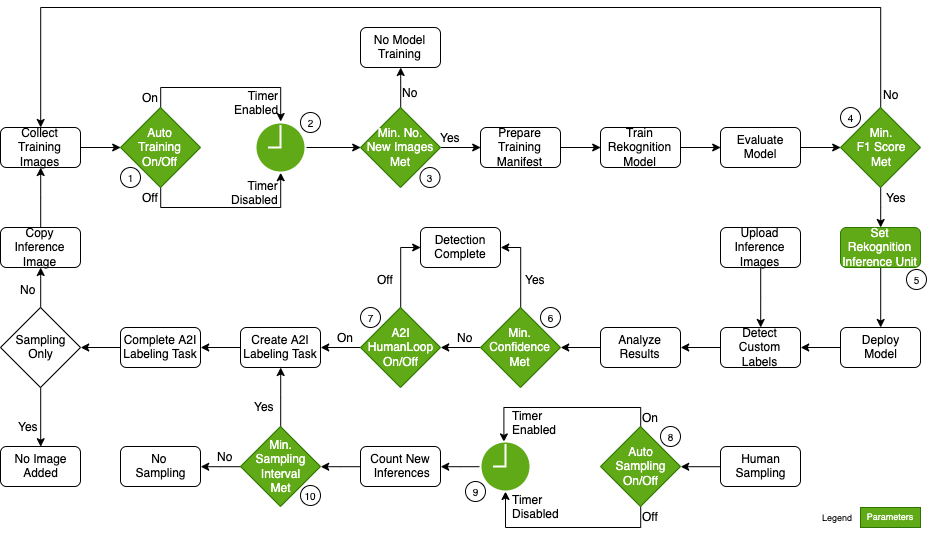
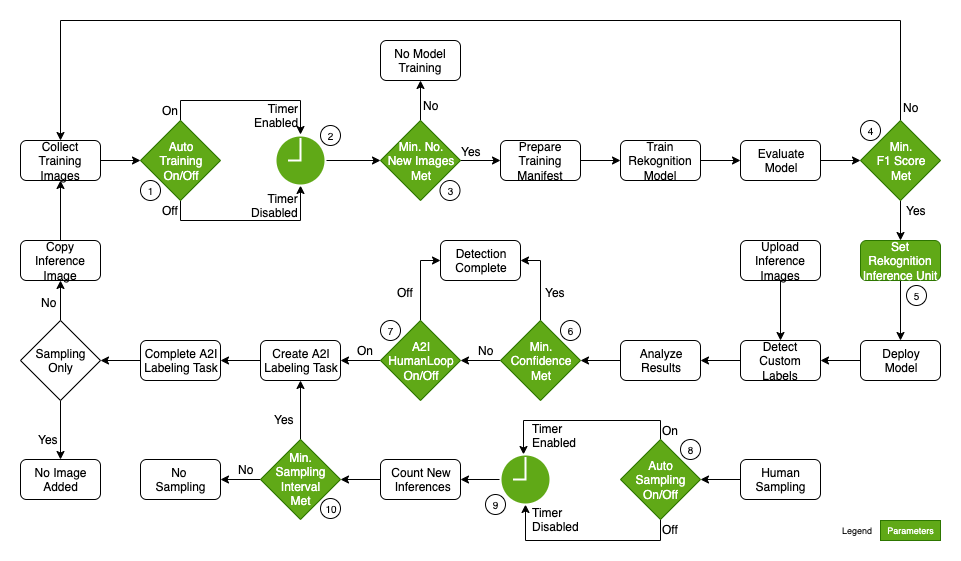
Update README and diagrams

diff --git a/README.md b/README.md
@@ -36,7 +36,7 @@ The state machine is event-driven and divided into four separate states:
 
 4. The A2I Human Loop Data state is invoked by an S3 PutObject event. When the Amazon A2I human review workflow is complete, the output is stored in Amazon S3 by Amazon A2I by default. An S3 PutObject event invokes a Lambda function to redirect the required action to the state machine. The state machine invokes another Lambda function to evaluate the human loop response and place a copy of the initial image into an S3 folder corresponding to the evaluated label. This is the process in which new human-labeled images are added to the training dataset.
 
-5. The Human Sampling state is invoked by an EventBridge schedule rule on a polling schedule set by the model operator as a parameter. The state machine invokes a Lambda function to first query the image inference log to find the last human sampled inference and then query the next qualified inference to be sampled based on the sampling interval as set the model operator. If found, that inference is marked as "sampled" and an human review workflow is created. The process repeats again until all qualified inferences are marked for sampling in the same invocation.
+5. The Human Sampling state is invoked by an EventBridge schedule rule on a polling schedule set by the model operator as a parameter. The state machine invokes a Lambda function to first query the image inference log to find the last human sampled inference and then search for the next qualified inference to be sampled based on the sampling interval as set by the model operator. If qualified, that inference is marked as "sampled" and a human review workflow is created. The process repeats again until all qualified inferences are marked for human sampling in the same invocation.
 
 ### Architecture overview
 This solution is built on AWS [serverless](https://aws.amazon.com/serverless/) architecture. The architecture is shown in the following diagram.
@@ -55,7 +55,7 @@ We use Parameter Store in two different ways. Firstly, we provide a set of seven
 
 We use two EventBridge rules to initiate Step Functions state machine runs. The first rule is based on a Systems Manager event pattern. The Systems Manager rule is triggered by changes to the Parameter Store and initiates the state machine to invoke a Lambda function to apply changes to the impacted resources. The second rule is a schedule rule. The schedule rule is triggered periodically to initiate the state machine to invoke a Lambda function to check for new model training.
 
-We use an [Amazon DynamoDB](https://aws.amazon.com/dynamodb/) NoSQL database to log all Rekognition and A2I events and results for performance analysis and model drift detection. Although we did NOT include an analytics feature in this example,  you can quickly deploy [Amazon QuickSight](https://aws.amazon.com/quicksight/) with the DynamoDB table as your source to visualize the performance of your model over time.
+We use an [Amazon DynamoDB](https://aws.amazon.com/dynamodb/) NoSQL database to log all Rekognition and A2I events and results for performance analysis and model drift detection. Although we did NOT include an analytics feature in this example, you can use [AWS Glue](https://aws.amazon.com/glue) and [Amazon Athena](https://aws.amazon.com/athena) to run interactive ad hoc SQL queries against the inference logs. With [Amazon QuickSight](https://aws.amazon.com/quicksight/), you can create real-time analytics dashboard to visualize the inference logs.
 
 We use a Step Functions state machine to orchestrate the ML workflow. The state machine initiates different processes based on events received from EventBridge and responses from Lambda. In addition, the state machine uses an internal process such as Wait to wait for model training and deployment to complete and Choice to evaluate for next tasks.
 

diff --git a/6-Human-Sampling/README.md b/6-Human-Sampling/README.md
@@ -3,16 +3,16 @@
 In this section, we explain the design principle and the processes behind the human sampling workflow.
 
 **Design principle**  
-The principle for the human-in-the-loop workflow is intended for model improvement by capturing inference images with [Amazon Rekognition Custom Labels](https://aws.amazon.com/rekognition/custom-labels-features/) with low confidence detection result and add them to the training dataset for new training. The principle for human sampling workflow is intended for business improvement. In human sampling, for every `nth` detection, the detection is flagged for human review and the human-labeled result is compared against the detected one, regardless of the original detection confidence level. The sampled detections can then used for qualify control, audit, analytics, etc. Although both workflows use the same [Amazon A2I](https://aws.amazon.com/augmented-ai/) process, inference images flagged as `sampled only` are **not** add to the training dataset.
+The principle for human sampling is intended for business improvement. In human sampling, every `nth` detection is flagged for human review and the human-labeled result is compared against the detected one, regardless of the original detection confidence level. The sampled detections can then be used for qualify control, audit, analytics, **manual** model drift detection, etc. Inference images flagged as `sampled only` are **not** added to the training dataset.
 
 **Workflow**  
 The human sampling workflow is configurable by three [Amazon Parameter Store](https://console.aws.amazon.com/systems-manager/parameters) parameters as explained in [Section 2-Parameter Store](../2-Parameter-Store/). When **Enable-Automatic-Human-Sampling** is enabled, an [Amazon EventBridge](https://aws.amazon.com/eventbridge/) schedule rule is triggered every `nth` minutes as set in **Automatic-Human-Sampling-Frequency** to invoke the processes orchestrated by [AWS Step Functions](https://aws.amazon.com/step-functions/). The processes include:
 
-1. Initialize the starting `query date` with the `Last modified date` of **Enable-Automatic-Human-Sampling**. The purpose is to sample forward instead retroactively finding historic samples.
+1. Initialize the starting `query date` with the `Last modified date` of **Enable-Automatic-Human-Sampling**. The purpose is to sample forward instead of retroactively finding historic samples.
 2. Query the minimum number (`limit`) of detection events as set in **Human-Sampling-Interval** forward from the `query date`
-3. If the query result count is less than the minimum number, then the process ends. Otherwise the last (`limit`) detection event is marked as sampled and the new `query date` is set to the detection event date.
+3. If the query result count is less than the minimum number, then the process ends. Otherwise, the last (`limit`) detection event is marked as sampled.
 4. Next an A2I human labeling task is created if none exists from another process and the originating source is marked as `Human Sampling`.
-5. Repeat Steps 2 through 4.
+5. Steps 2 through 4 are repeated with `query date` set to the current sampled detection date.
 
 Finally the labeling task is completed as explained in [Section 5-A2I Human Loop](../5-A2I-Human-Loop/).
 
